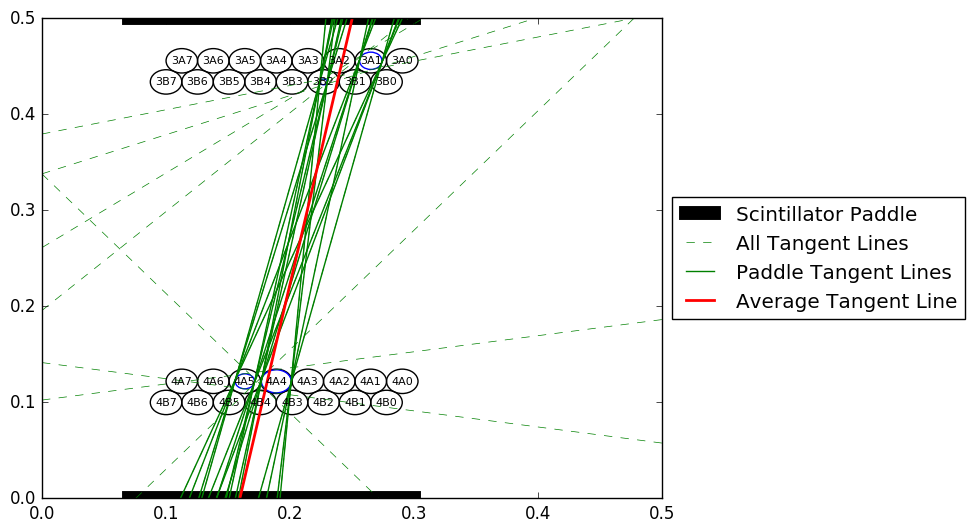
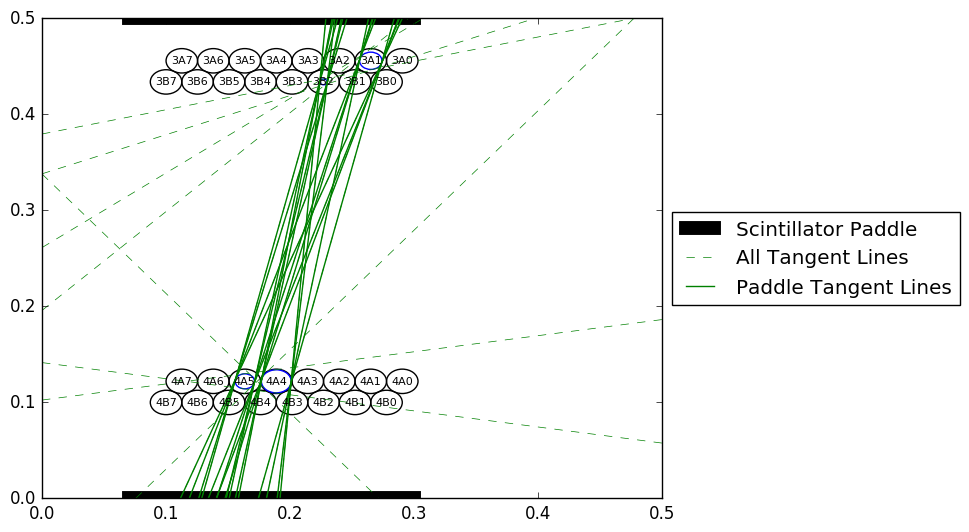
Test images

diff --git a/main.py b/main.py
@@ -18,7 +18,7 @@ plotConfig = {"showTubes": True,
               "showHitCircles": True,
               "showAllPossibleTanLines": True,
               "showPaddleTanLines": True,
-              "showAverageTanLine": True}
+              "showAverageTanLine": False}
 
 # ******************Load tube position data***************** #
 # using numpy, get the x,y positions of each tube in m.  load them into a dict using names as keys
@@ -103,3 +103,23 @@ for gon in glob("*.gon"):
     plt.xlim((0, 0.5))
     plt.ylim((0, 0.5))
     fig.savefig(imgDir+"/"+gon[:-4]+".png", bbox_extra_artists=(lgd,), bbox_inches="tight")
+
+    m = []
+    b = []
+    for line in paddleTanList:
+        m.append(line.m)
+        b.append(line.b)
+    print(len(m))
+    print(len(b))
+
+    fig, ax = plt.subplots()
+    ax.scatter(m, b, marker=".")
+    #ax.set_xlim((-190,-180))
+    #ax.set_ylim((40,50))
+    fig.savefig(imgDir+"/"+gon[:-4]+"bVm"+".png")
+    fig, ax = plt.subplots()
+    ax.boxplot(m)
+    fig.savefig(imgDir+"/"+gon[:-4]+"mhist"+".png")
+    fig, ax = plt.subplots()
+    ax.boxplot(b)
+    fig.savefig(imgDir+"/"+gon[:-4]+"bhist"+".png")
